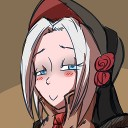
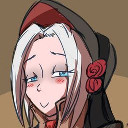
change 124 to 128

diff --git a/templates/template.html b/templates/template.html
@@ -18,7 +18,7 @@
 </head>
 <body>
 <header>
-	<img src="/static/portrait.jpg" width="124" height="124">
+	<img src="/static/portrait.jpg" width="128" height="128">
 	<h1><a href="/">{{= it.blog.title }}</a></h1>
 	<h2>{{= it.blog.description }}</h2>
 </header>
